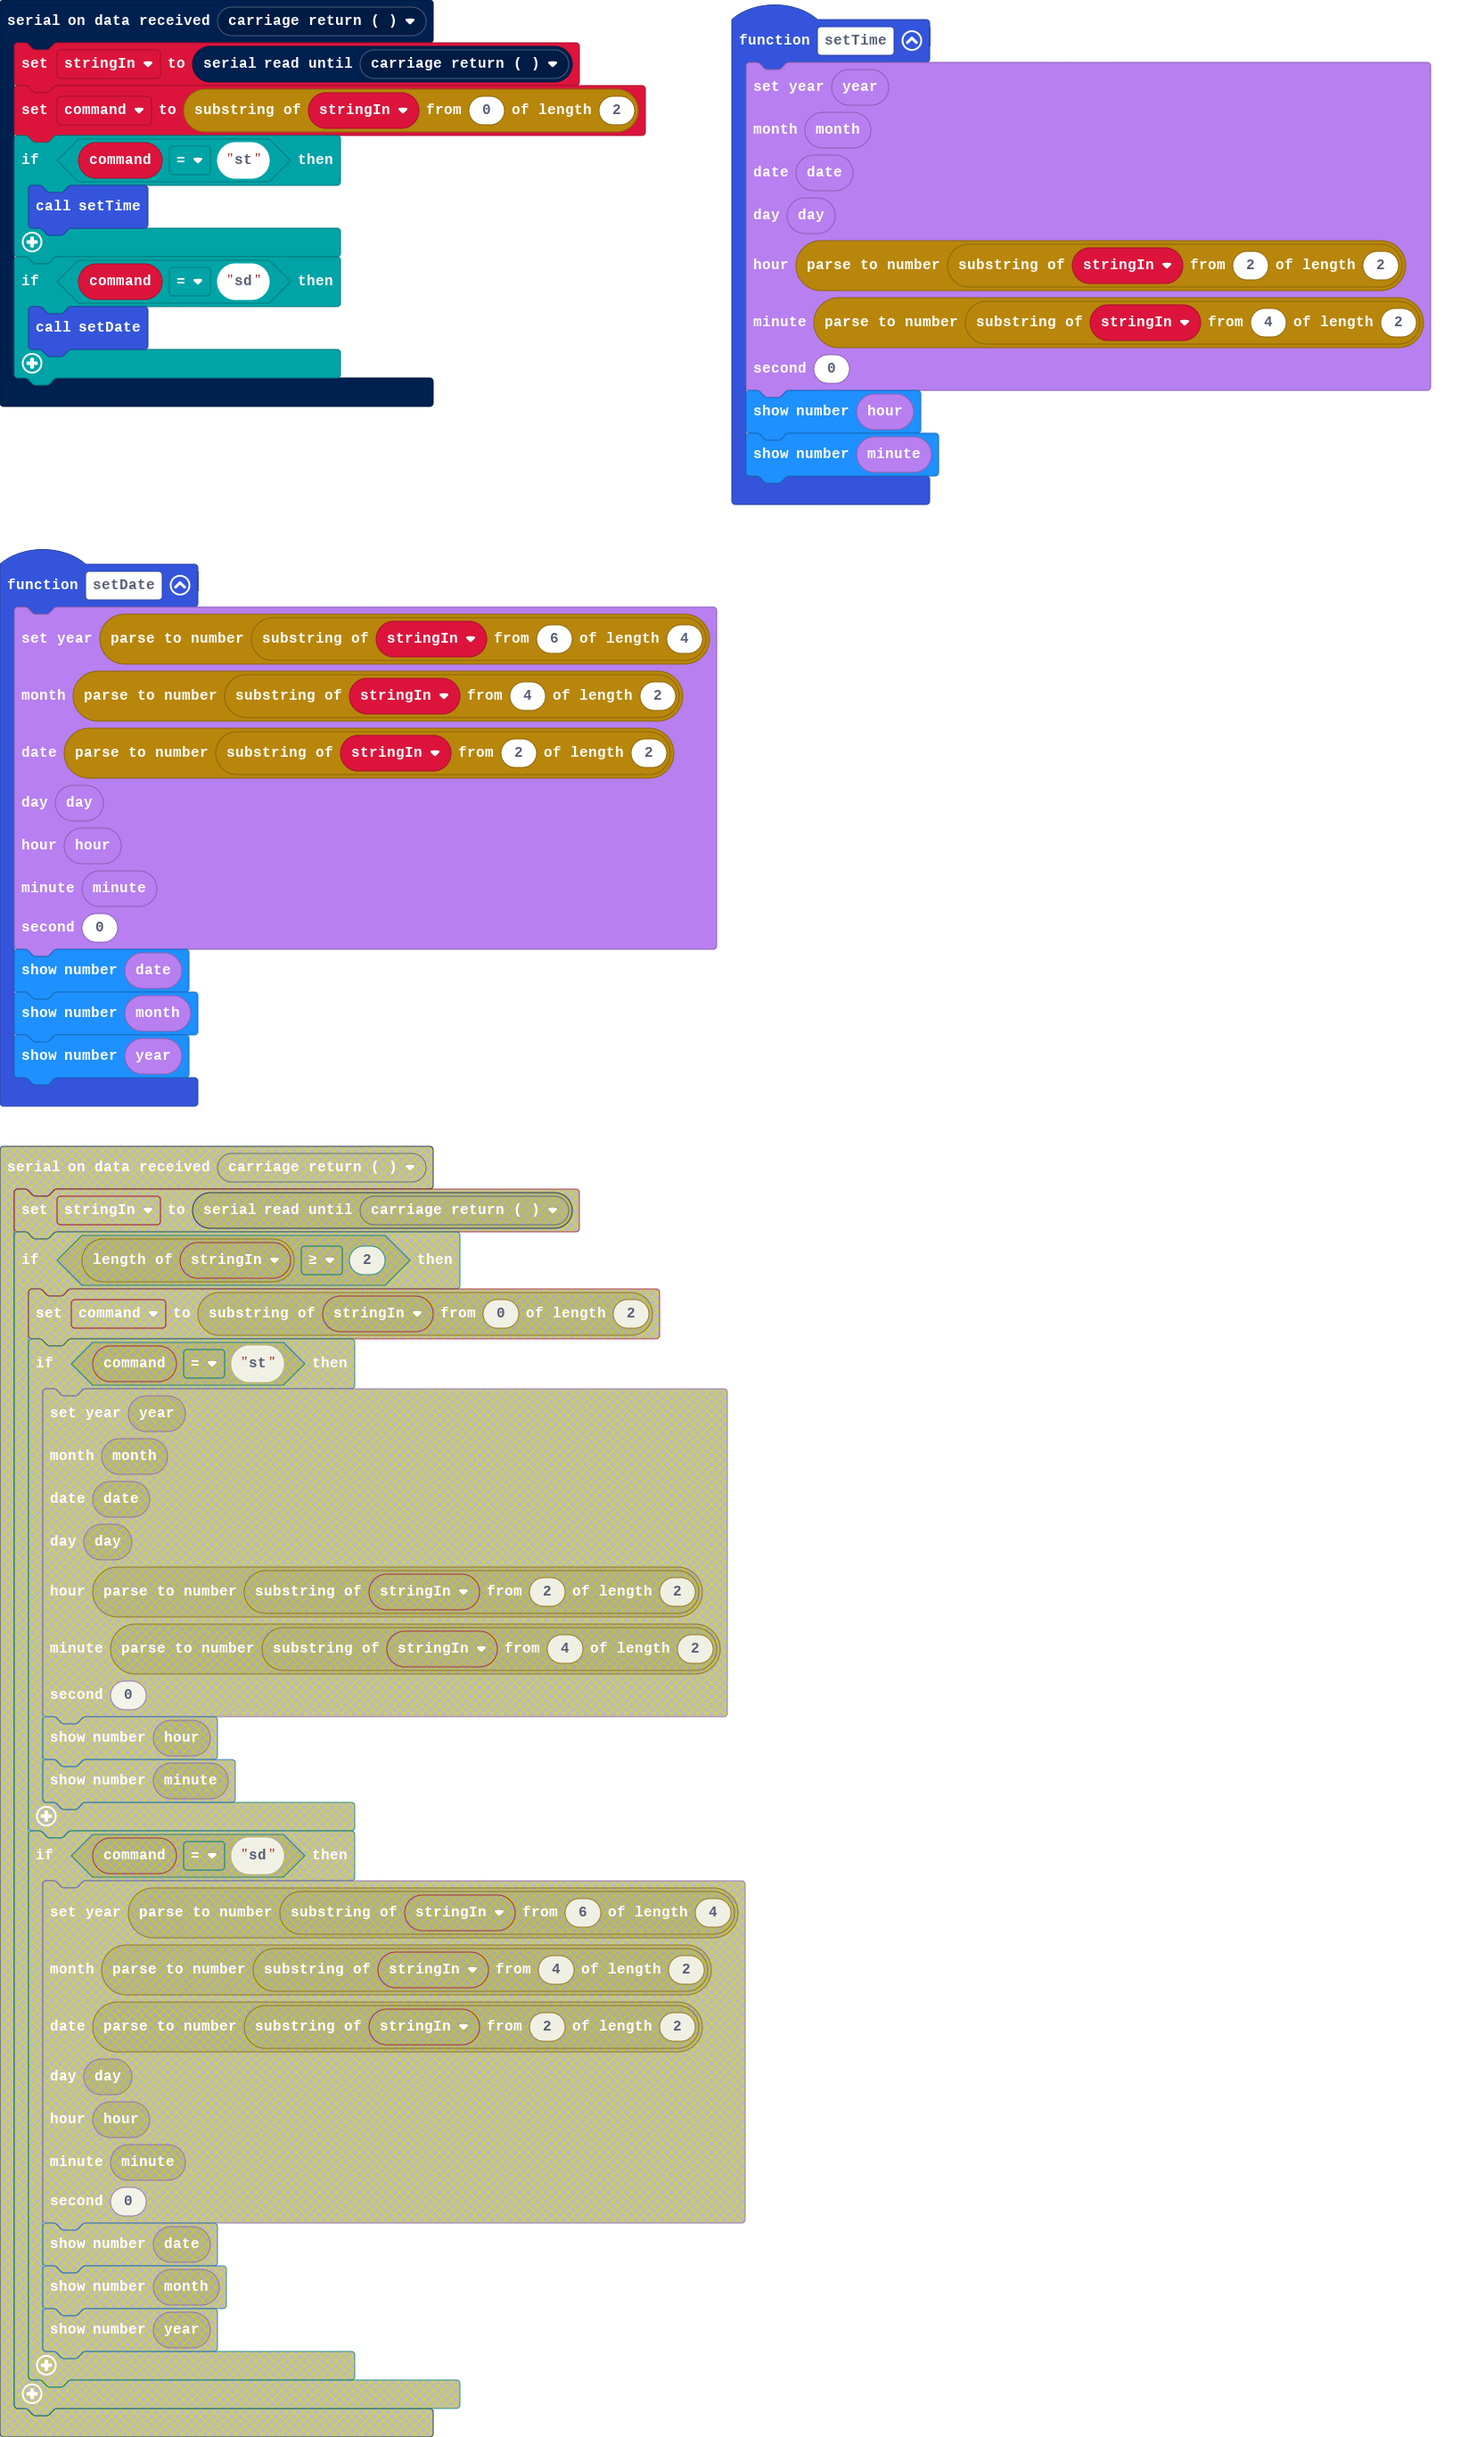
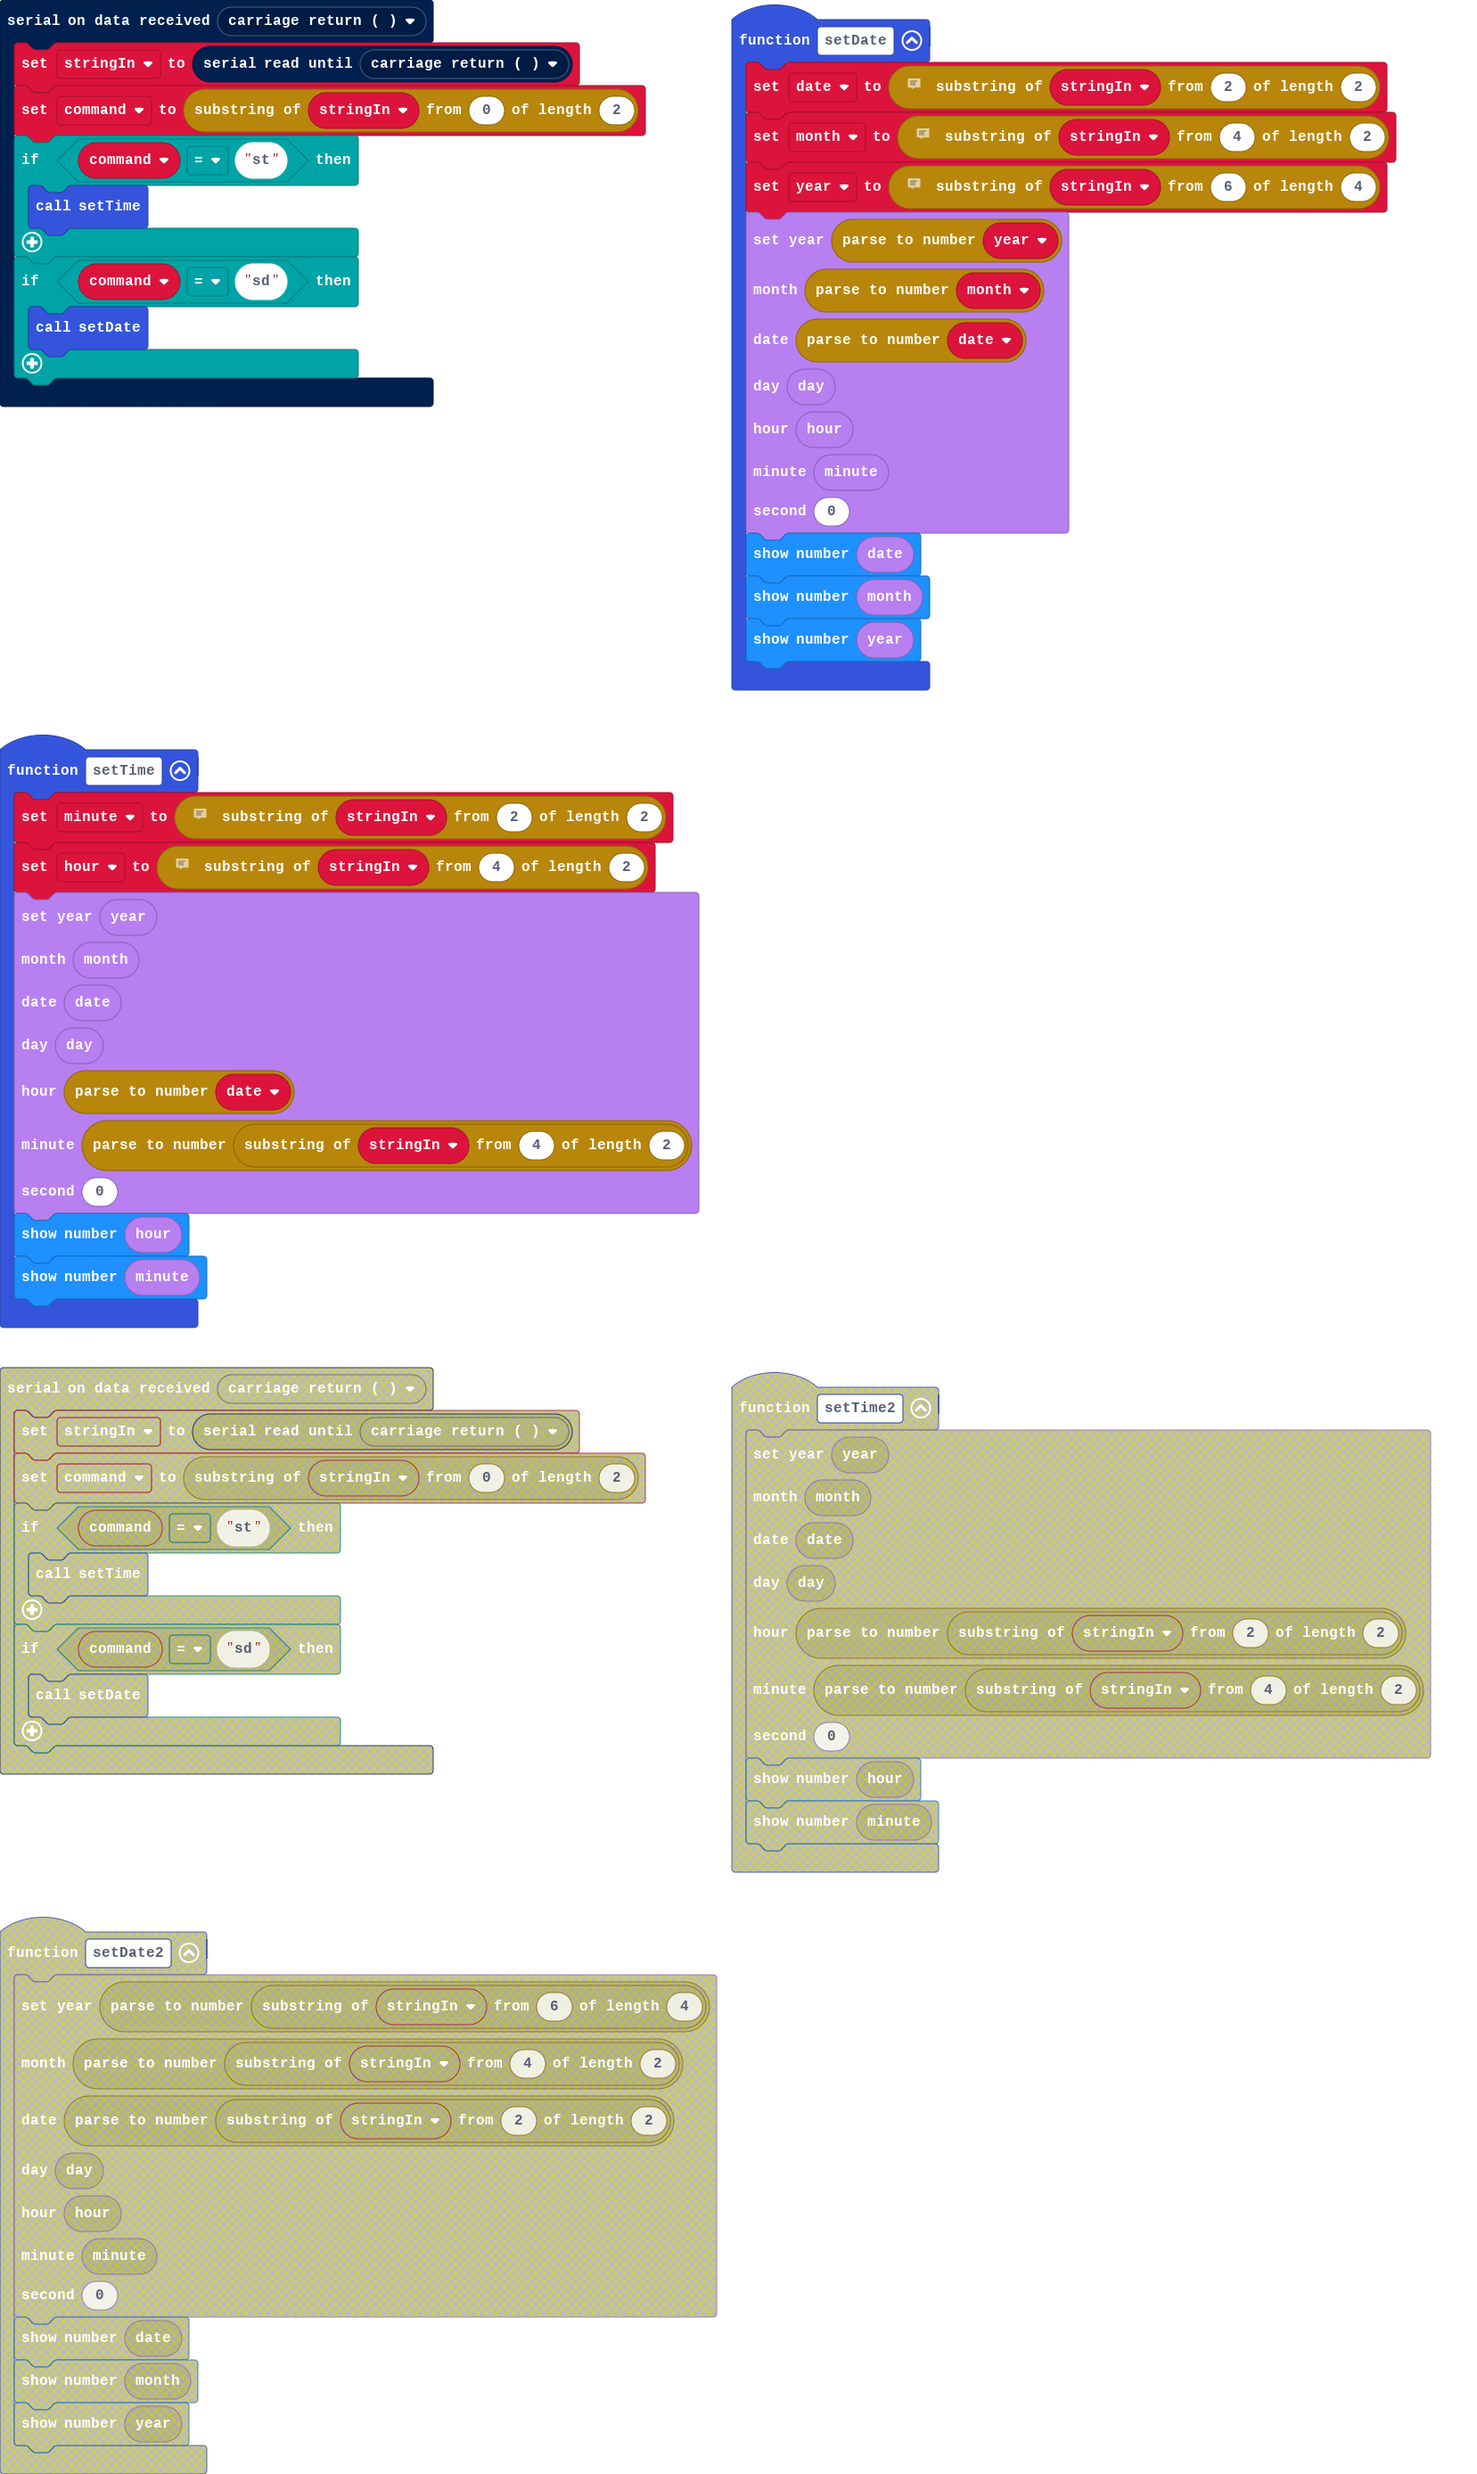
separate functions

diff --git a/main.ts b/main.ts
@@ -1,10 +1,21 @@
+let date = ""
 let stringIn = ""
+let month = ""
+let year = ""
+let minute = ""
+let hour = ""
 let command = ""
 function setDate () {
+    // the first 2 characters after command
+    date = stringIn.substr(2, 2)
+    // the next 2 characters
+    month = stringIn.substr(4, 2)
+    // the last 4 characters
+    year = stringIn.substr(6, 4)
     DS3231.dateTime(
-    parseFloat(stringIn.substr(6, 4)),
-    parseFloat(stringIn.substr(4, 2)),
-    parseFloat(stringIn.substr(2, 2)),
+    parseFloat(year),
+    parseFloat(month),
+    parseFloat(date),
     DS3231.day(),
     DS3231.hour(),
     DS3231.minute(),
@@ -15,12 +26,16 @@ function setDate () {
     basic.showNumber(DS3231.year())
 }
 function setTime () {
+    // the first 2 characters after command
+    minute = stringIn.substr(2, 2)
+    // the next 2 characters command
+    hour = stringIn.substr(4, 2)
     DS3231.dateTime(
     DS3231.year(),
     DS3231.month(),
     DS3231.date(),
     DS3231.day(),
-    parseFloat(stringIn.substr(2, 2)),
+    parseFloat(date),
     parseFloat(stringIn.substr(4, 2)),
     0
     )
